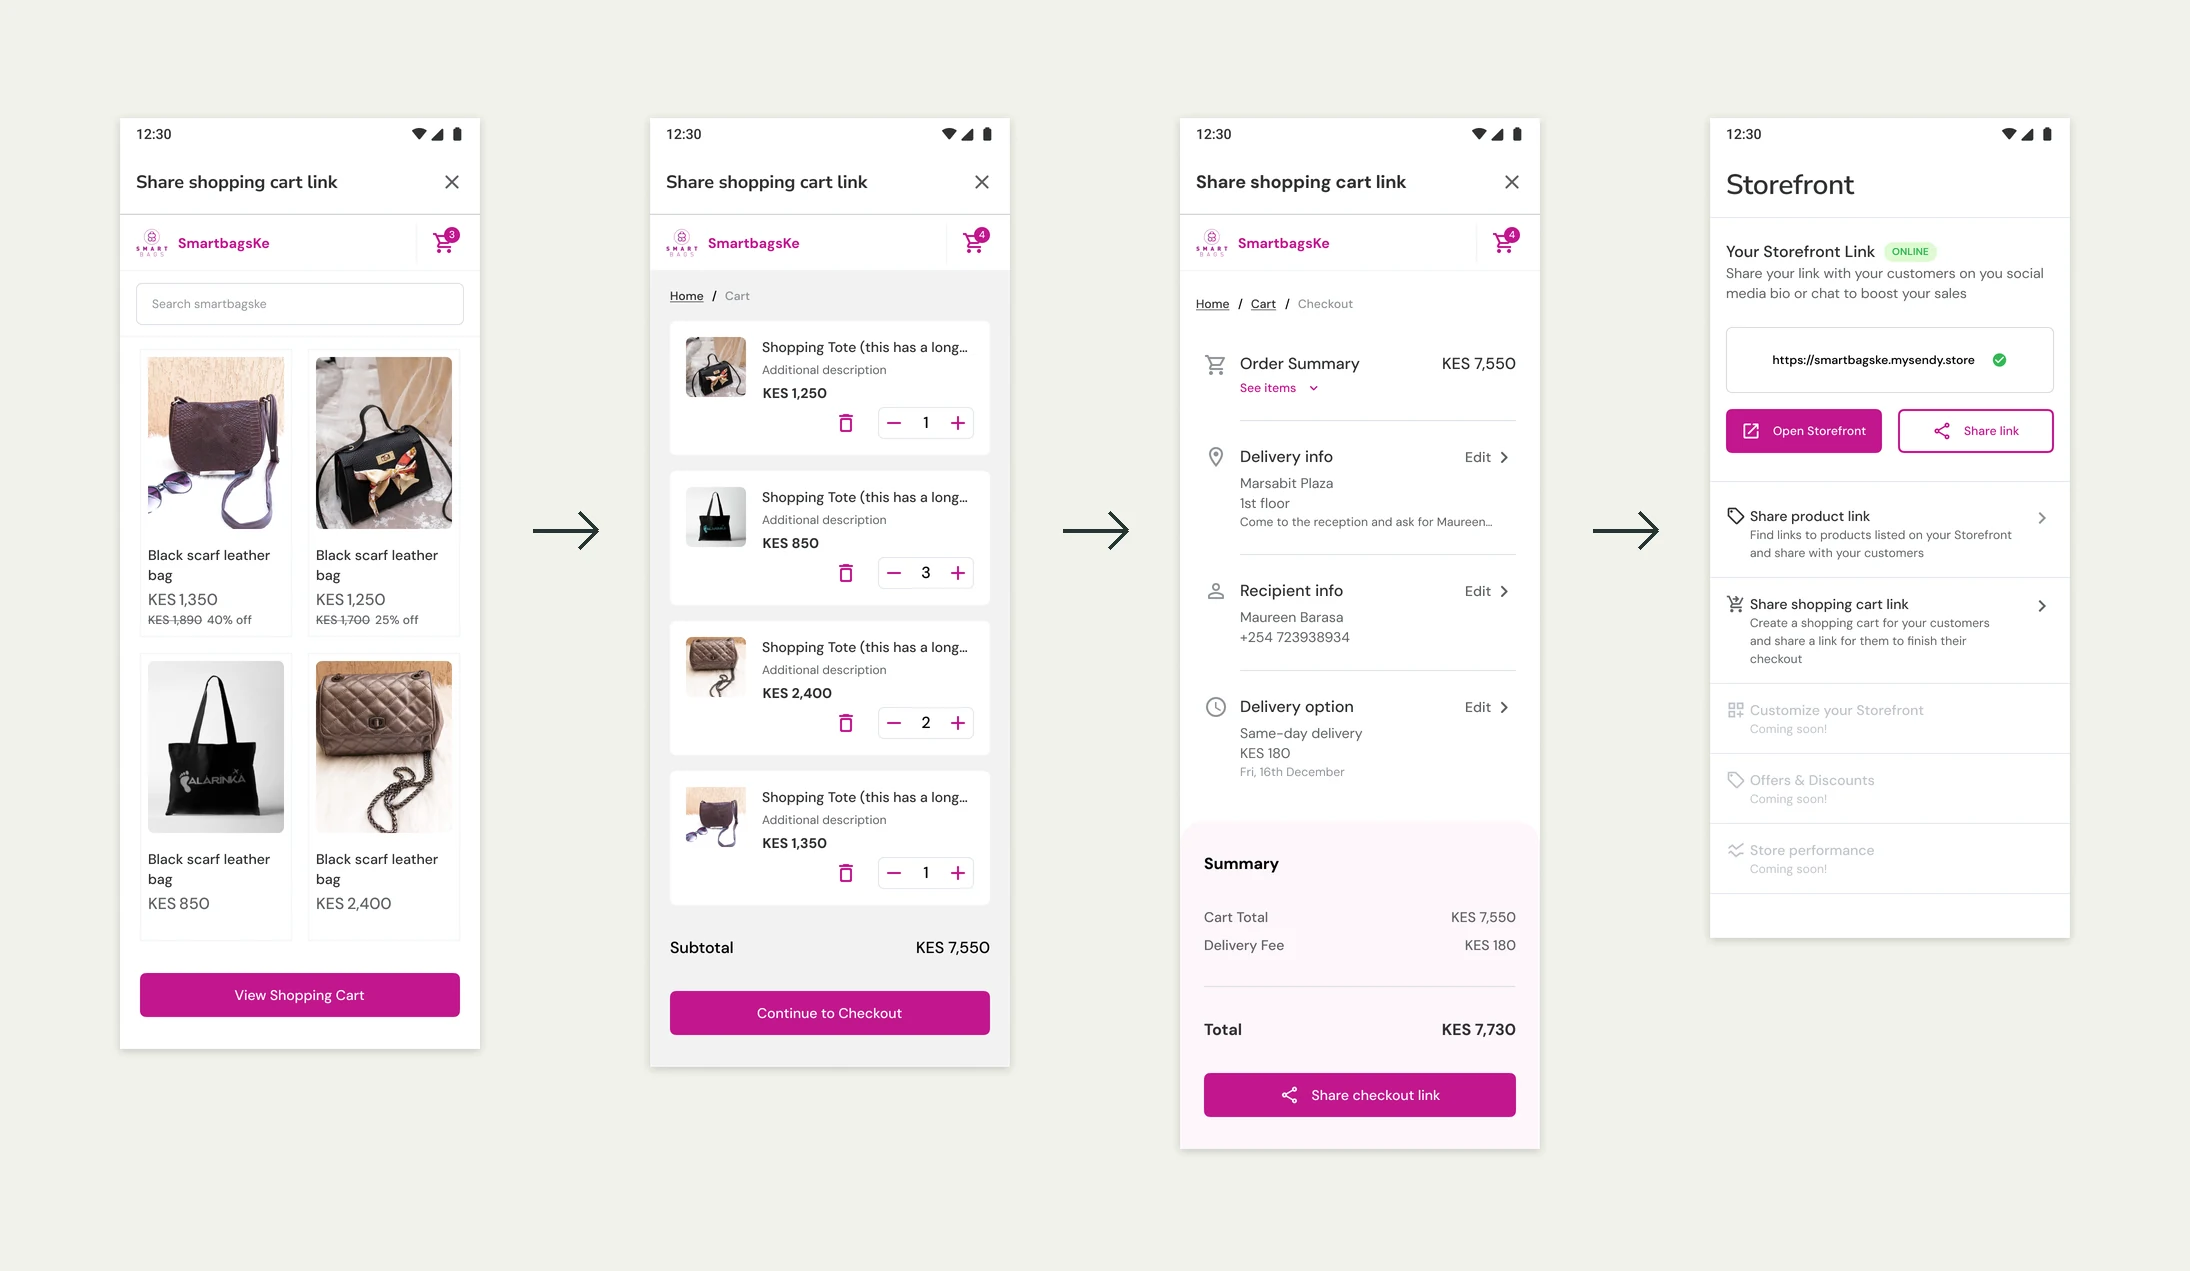
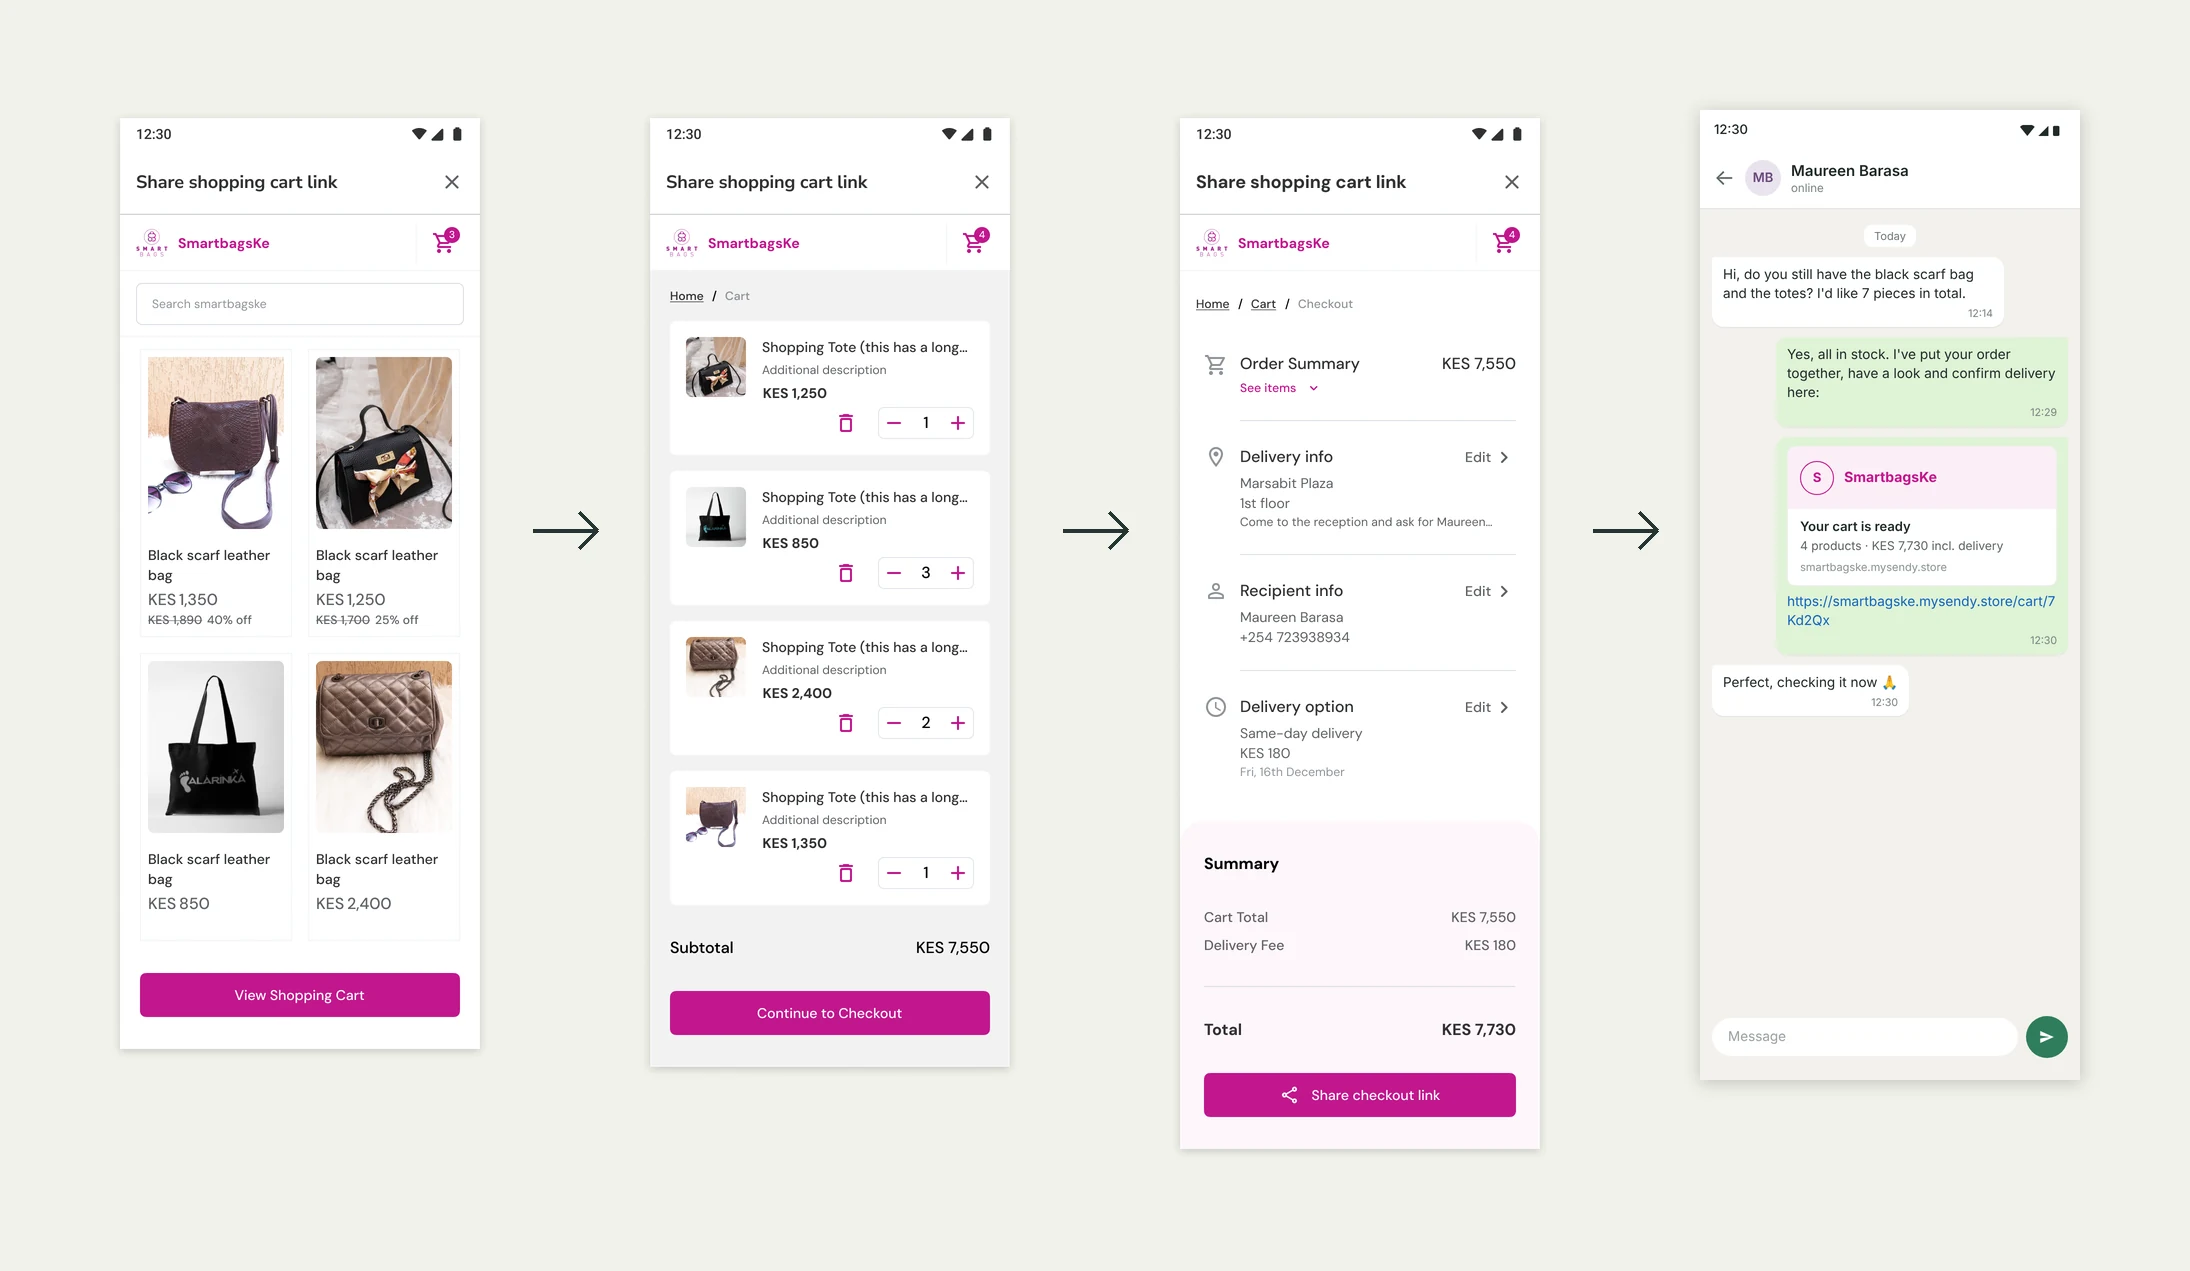
Replace last strip screen with chat illustration, add shared cart and discounts context
Claude-Session: https://claude.ai/code/session_01EhhWSkpq8HuF9aWR1QYN9L

diff --git a/case-study-storefront.html b/case-study-storefront.html
@@ -94,13 +94,14 @@
                 <p><strong>Optimize for seller momentum, not completeness.</strong> Reduce steps. Get sellers to a shareable storefront fast. Configuration could come later.</p>
                 <p><strong>Treat trust mechanisms as core infrastructure.</strong> Payment on Delivery wasn't a "phase two" feature. It was foundational to whether sellers would adopt the product at all.</p>
                 <p><strong>Separate "must-have" from "expensive-to-build."</strong> Pricing configuration was important, but we named the dev cost honestly and planned it intentionally rather than sneaking scope into v1.</p>
-                <p><strong>Bake growth into the product.</strong> Discounts and bundling weren't feature requests — they were how sellers drive revenue. Designing without them would have been designing for a market that doesn't exist.</p>
+                <p><strong>Bake growth into the product.</strong> Discounts and bundling weren't feature requests — they were how sellers drive revenue. Designing without them would have been designing for a market that doesn't exist. Offers and discounts needed platform-wide backend support from other teams, so they stayed high priority but blocked. The Storefront tab shows them as coming soon.</p>
 
                 <h2>What shipped</h2>
                 <p>The final design included a desktop and mobile storefront where customers could browse and order, and a new Storefront tab inside the Sendy Fulfillment app for sellers to manage their catalog, customize their page, and share links.</p>
+                <p><strong>Shared carts.</strong> Sellers were already taking orders from buyers over chat and closing them by hand. We gave them a way to do it faster: build the cart, send the customer a checkout link, and let the buyer complete the order. The buyer keeps full control of the cart items during checkout.</p>
                 <figure class="cs-figure">
-                    <img src="images/storefront-cart-link.webp" width="2190" height="1271" loading="lazy" alt="Four mobile screens: a storefront catalogue of handbags, a shopping cart with four items, a checkout summary with delivery and recipient details and a Share checkout link button, and a list of delivery options with prices.">
-                    <figcaption>A seller builds a cart for a customer and shares a checkout link. Delivery options and fees are shown to the buyer.</figcaption>
+                    <img src="images/storefront-cart-link.webp" width="2190" height="1271" loading="lazy" alt="Four mobile screens: a storefront catalogue of handbags, a shopping cart with four items, a checkout summary with a Share checkout link button, and a chat conversation in which the seller sends the cart link to a customer.">
+                    <figcaption>A seller builds a cart and shares the checkout link over chat. The last screen is an illustration of the message a buyer would receive, not a product screen.</figcaption>
                 </figure>
 
                 <h2>What didn't ship</h2>
